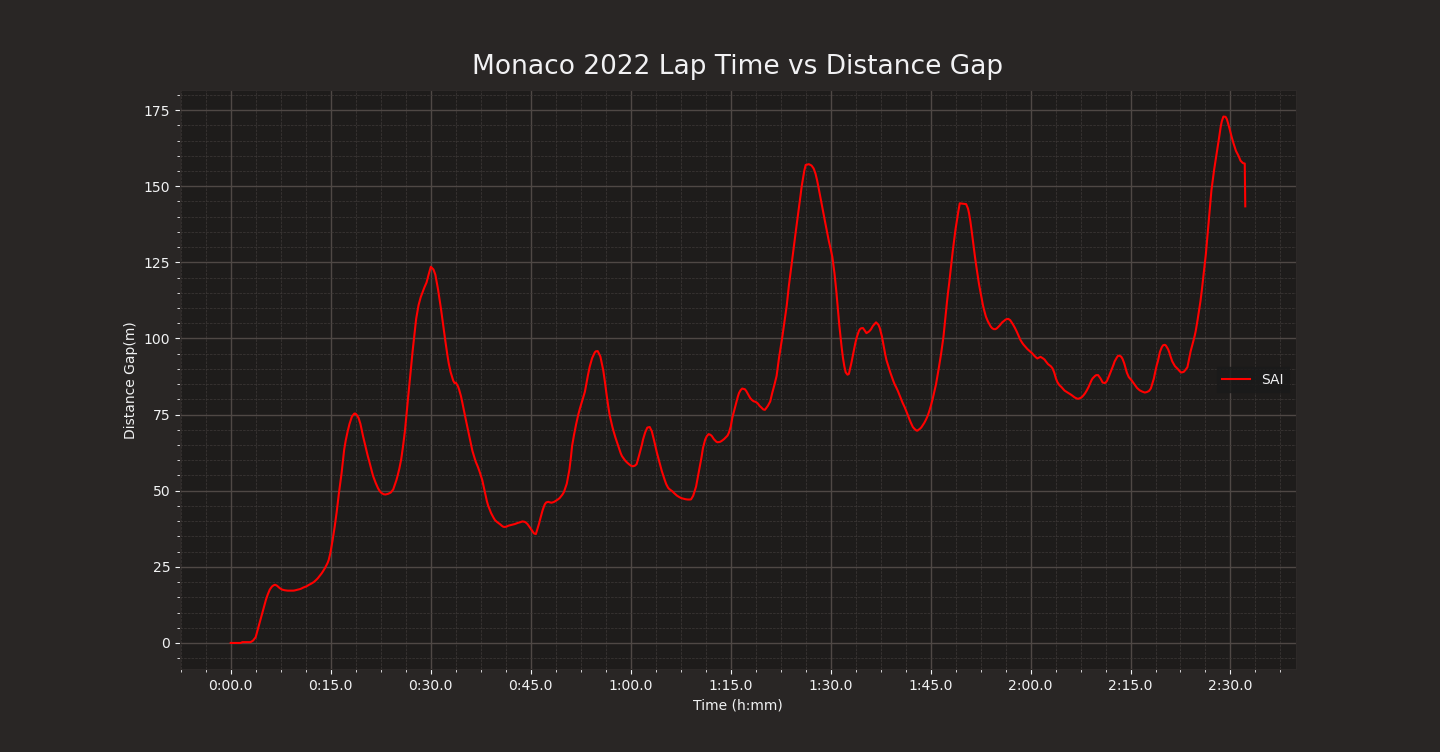
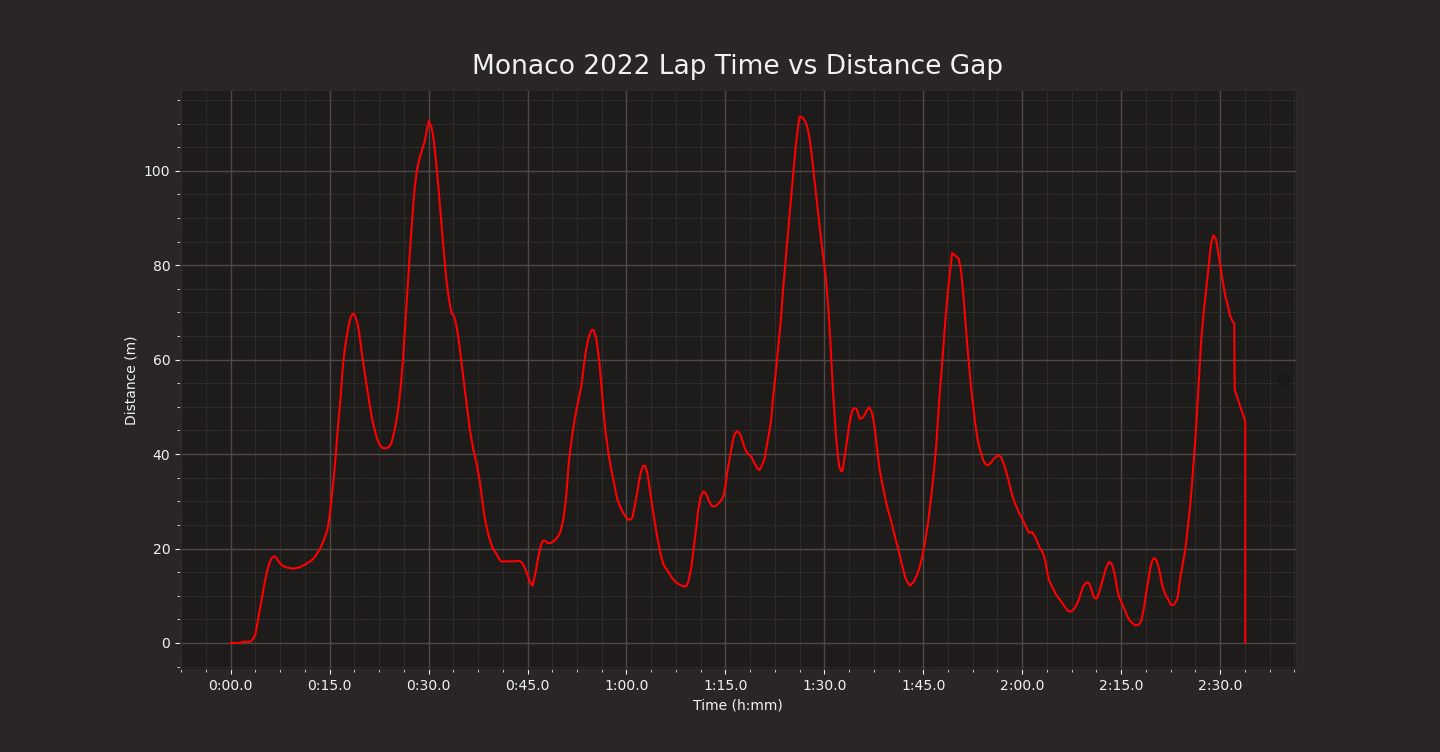
corrected dist col and plotted time diff distribution

diff --git a/lap_delta.py b/lap_delta.py
@@ -3,6 +3,7 @@ import pandas as pd
 from fastf1 import plotting
 from fastf1 import utils
 from matplotlib import pyplot as plt
+import datetime
 
 # options for easier readability on df print
 pd.set_option('display.max_columns', None)
@@ -215,6 +216,61 @@ def time_dist_race_all(year, race, drivers, num_laps=None):
             ref = ref[['Time', 'Distance']]
 
             # use j != 1 to exclude lap 1
+            if j != 0:
+                # if j != 0:
+                ref_len = len(laps_df)
+                last_ref_dist = laps_df['Distance'].iloc[ref_len - 1]
+                last_ref_time = laps_df['Time'].iloc[ref_len - 1]
+                ref['Time'] = ref['Time'] + last_ref_time
+                ref['Distance'] = ref['Distance'] + last_ref_dist
+
+            ref['LapNumber'] = d_lap.LapNumber
+            ref['Driver'] = d_laps.Driver.iloc[0]
+            ref['DriverNumber'] = d_laps.DriverNumber.iloc[0]
+            ref['MaxDistance'] = max(ref['Distance'])
+
+            laps_df = pd.concat([laps_df, ref]).reset_index(drop=True)
+
+        ax.plot(laps_df['Time'].loc[laps_df['Driver'] == d_laps.Driver.iloc[0]],
+                laps_df['Distance'].loc[laps_df['Driver'] == d_laps.Driver.iloc[0]],
+                color=plotting.driver_color(d_laps.Driver.iloc[0]), label=d_laps.Driver.iloc[0])
+
+    # print(laps_df)
+    # laps_df.to_csv('data/Monaco/MonacoTD_LEC_SAI_L1_TEST.csv', index=False)
+
+    ax.set_xlabel("Time (h:mm)")
+    ax.set_ylabel("Distance (m)")
+    ax.legend(loc='center right')
+    plt.title(race + " " + str(year) + " Lap Time vs Distance Gap")
+    plt.show()
+
+
+def time_gap_race_all(year, race, drivers, num_laps=None):
+    plotting.setup_mpl()
+    fig, ax = plt.subplots()
+    race_dist = 3337
+    laps_df = pd.DataFrame()
+
+    session = ff1.get_session(year, race, 'R')
+    session.load()
+
+    for i in range(len(drivers)):
+        d = drivers[i]
+        d_laps = session.laps.pick_driver(d)
+
+        if num_laps is None:
+            laps = max(d_laps.LapNumber)
+        else:
+            laps = num_laps
+
+        # use range(1, laps+1) to exclude lap 1
+        for j in range(laps):
+            # for j in range(laps):
+            d_lap = d_laps[d_laps['LapNumber'] == (j + 1)].iloc[0]
+            ref = d_lap.get_car_data(interpolate_edges=True).add_distance()
+            ref = ref[['Time', 'Distance']]
+
+            # use j != 1 to exclude lap 1
             """if j != 1:
                 # if j != 0:
                 ref_len = len(laps_df)
@@ -226,20 +282,17 @@ def time_dist_race_all(year, race, drivers, num_laps=None):
             ref['LapNumber'] = d_lap.LapNumber
             ref['Driver'] = d_laps.Driver.iloc[0]
             ref['DriverNumber'] = d_laps.DriverNumber.iloc[0]
-            ref['MaxDistance'] = max(ref['Distance'])
+            max_dist = max(ref['Distance'])
+            if max_dist > race_dist:
+                ref['Distance'] = ref['Distance'].apply(lambda row: (race_dist/max_dist)*row)
 
-            laps_df = pd.concat([laps_df, ref]).reset_index()
+            laps_df = pd.concat([laps_df, ref]).reset_index(drop=True)
 
         """ax.plot(laps_df['Time'].loc[laps_df['Driver'] == d_laps.Driver.iloc[0]],
                 laps_df['Distance'].loc[laps_df['Driver'] == d_laps.Driver.iloc[0]],
                 color=plotting.driver_color(d_laps.Driver.iloc[0]), label=d_laps.Driver.iloc[0])"""
 
-        # print(str(d_laps.Driver.iloc[0]) + " " + str(max(laps_df['Time'].loc[laps_df['DriverNumber'] == d])) +
-        #      " // " + str(max(laps_df['Distance'].loc[laps_df['DriverNumber'] == d])))
-
-    laps_df.drop(columns=['level_0', 'index'], inplace=True)
-
-    d1 = laps_df['Distance'].iloc[laps_df.index[laps_df['DriverNumber'] == '16']]
+    """d1 = laps_df['Distance'].iloc[laps_df.index[laps_df['DriverNumber'] == '16']]
     d2 = laps_df['Distance'].iloc[laps_df.index[laps_df['DriverNumber'] == '55']]
     ld1 = len(d1)
     ld2 = len(d2)
@@ -265,20 +318,27 @@ def time_dist_race_all(year, race, drivers, num_laps=None):
     d_diff = d1 - d2
     test = pd.concat([t1, t2, d_diff], axis=1, ignore_index=True)
     print(test)
-    ax.plot(t1, d_diff, color='red')
-    #print(laps_df)
+    ax.plot(t1, d_diff, color='red')"""
+
+    laps_df['TimeDiff'] = laps_df['Time'].diff()
+    laps_df['TimeDiff'] = laps_df['TimeDiff'].apply(lambda row: row.total_seconds())
+    laps_df['TimeDiff'].iloc[559] = 0
+    laps_df['TimeDiff'].fillna(0)
+    laps_df['TimeDiff'].plot(kind='hist', edgecolor='black', xticks=[0, 0.16, 0.28, 0.4, 0.5, 0.75, 1])
+    print(laps_df)
     #laps_df.to_csv('data/Monaco/MonacoTD_LEC_SAI_L1_TEST.csv', index=False)
 
-    ax.set_xlabel("Time (h:mm)")
+    """ax.set_xlabel("Time (h:mm)")
     ax.set_ylabel("Distance (m)")
     ax.legend(loc='center right')
     plt.title(race + " " + str(year) + " Lap Time vs Distance Gap")
-    plt.show()
+    plt.show()"""
 
 
 def main():
     cache(False)
 
+    """array containing all drivers numbers for 2022 season"""
     drivers = ['11', '55', '1', '16', '63', '4', '14', '44', '77', '5', '10', '31', '3', '18', '6', '24', '22', '23',
                '47', '20']
 
@@ -286,12 +346,21 @@ def main():
     #            'STR', 'VET', 'MAG', 'MSC', 'ALB', 'LAT']
 
     #plot_delta(2022, 'Monaco', '16', '55', 2)
-    #time_dist(2022, 'Monaco', '16', '55', 2)
-    # time_dist_all(2022, 'Monaco', drivers, 8)
 
-    # ---lap 7 OCO pass VET---
+    """graph two drivers time vs distance for a single lap"""
+    #time_dist(2022, 'Monaco', '16', '55', 2)
+
+    """graph all drivers time vs distance for a single lap """
+    #time_dist_all(2022, 'Monaco', drivers, 8)
+
+    """---lap 7 OCO pass VET---
+    graph two drivers time vs distance for entire race"""
     # time_dist_race_two(2022, 'Monaco', ['OCO', 'VET'], 10)
-    time_dist_race_all(2022, 'Monaco', ['LEC', 'SAI'], 1)
+
+    """graph all drivers time vs distance for entire race"""
+    #time_dist_race_all(2022, 'Monaco', drivers)
+
+    time_gap_race_all(2022, 'Monaco', ['LEC', 'SAI'], 1)
 
 
 if __name__ == '__main__':
